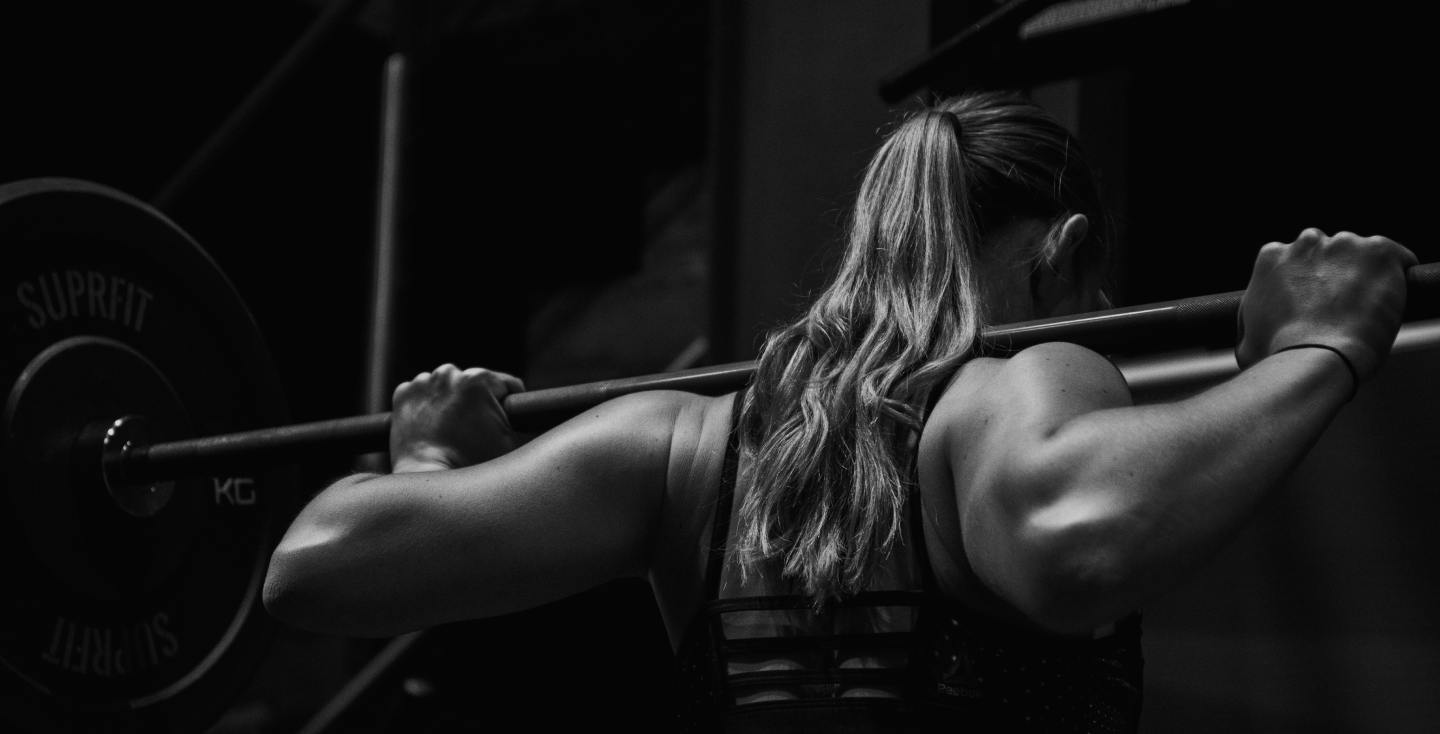
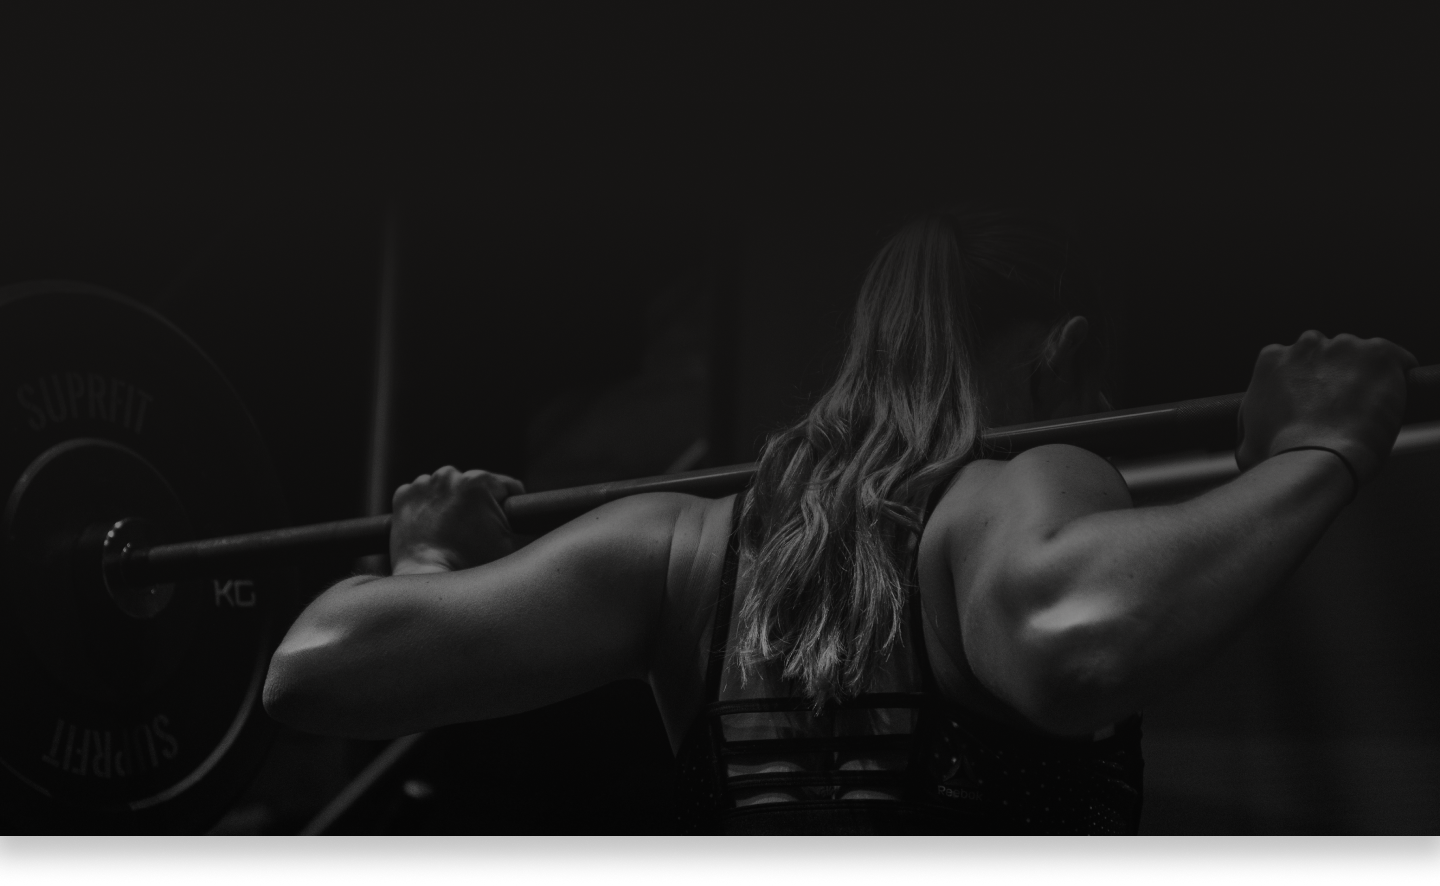
Header almost done :scream:

diff --git a/src/pages/index.tsx b/src/pages/index.tsx
@@ -1,12 +1,24 @@
 import GreatButton from '@/components/GreatButton';
 import Header from '@/components/Header';
+import { FaArrowRightLong as Arrow } from 'react-icons/fa6';
 
 const Home = () => {
   return (
     <main className="min-h-screen bg-page-color">
       <Header />
-      <section className="h-screen m-auto flex justify-center items-center bg-header-cover">
-        <GreatButton>Nossas turmas</GreatButton>
+      <section className="h-screen m-auto flex flex-col justify-center items-center bg-header-cover bg-cover">
+        <div className="flex justify-start pl-24 items-center w-full">
+          <div className="text-white tracking-[-0.2em] mb-24">
+            <h1 className="text-7xl font-bold">SUPERE SEUS LIMITES</h1>
+            <h2 className="sub-title text-5xl font-bold text-transparent">
+              CONQUISTE NOVOS RESULTADOS
+            </h2>
+          </div>
+        </div>
+
+        <GreatButton>
+          Nossas turmas <Arrow />
+        </GreatButton>
       </section>
     </main>
   );

diff --git a/src/styles/globals.css b/src/styles/globals.css
@@ -10,23 +10,35 @@
   text-decoration: none;
 }
 
+.sub-title {
+  -webkit-text-stroke-width: .7px;
+  -webkit-text-stroke-color: #fff;
+  width: 70%;
+}
+
 .great-button {
+  display: flex;
+  justify-content: center;
+  align-items: center;
+  gap: 10px;
   position: relative;
   padding: 10px 20px;
+  width: 235px;
   background-color: #fff;
   color: #000;
   border: none;
   cursor: pointer;
+  border-radius: 2px;
 }
 
 .great-button::before {
   content: '';
   position: absolute;
-  top: -15px;
-  right: -15px;
+  top: -10px;
+  right: -10px;
   bottom: 10px;
   left: 10px;
   border: 1px solid #fff;
   background-color: transparent;
-  border-radius: 5px;
+  border-radius: 2px;
 }
